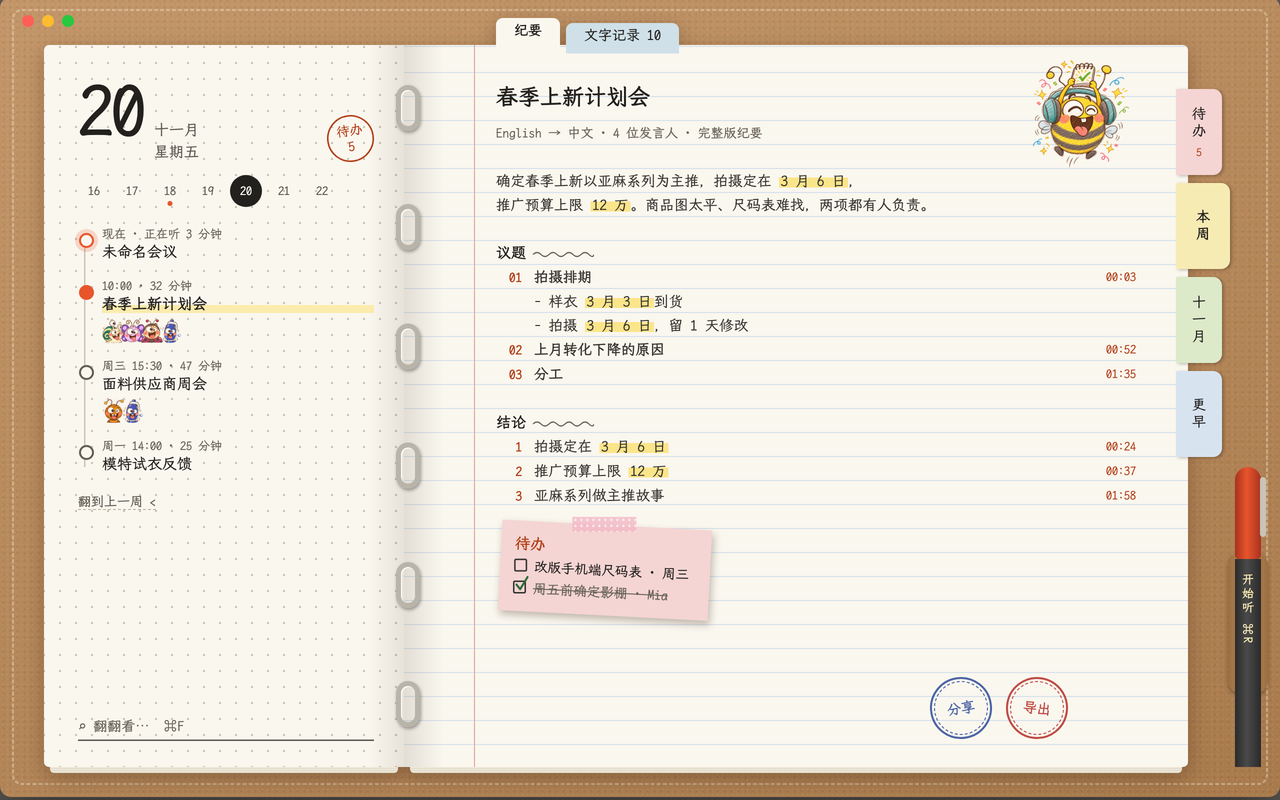
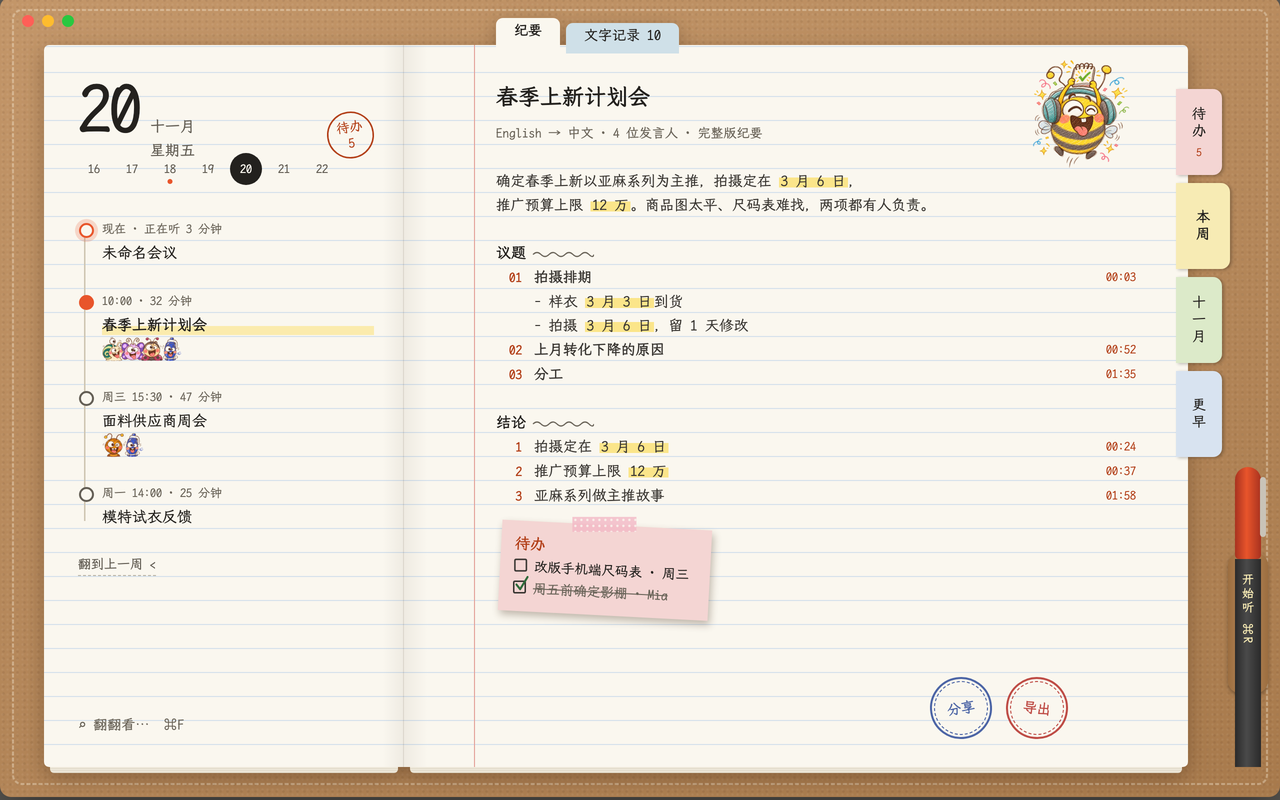
docs: planner mockup with both pages ruled and no rings at the fold

diff --git a/docs/design/mockups/round2-planner.html b/docs/design/mockups/round2-planner.html
@@ -42,40 +42,41 @@
   /* 摊开的活页本：左右两页 + 中间金属环 */
   .spread { position: absolute; left: 44px; top: 48px; right: 92px; bottom: 30px; display: flex; filter: drop-shadow(0 6px 10px rgba(60,35,15,.35)); }
   .pg { height: 100%; position: relative; background-color: var(--paper); }
-  .pgL { width: 360px; border-radius: 5px 0 0 5px; padding: 30px 30px 0 34px;
-    background-image: linear-gradient(90deg, transparent 90%, rgba(60,40,20,.10)), radial-gradient(rgba(150,140,120,.5) 1px, transparent 1.3px);
-    background-size: 100% 100%, 16px 16px; background-position: 0 0, 8px 10px; }
+  .pgL { width: 360px; border-radius: 5px 0 0 5px; padding: 28px 30px 0 34px;
+    background-image: linear-gradient(90deg, transparent 94%, rgba(60,40,20,.06)), repeating-linear-gradient(transparent 0 23px, var(--rule) 23px 24px);
+    background-position: 0 0, 0 4px; }
   .pgR { flex: 1; border-radius: 0 5px 5px 0; padding: 28px 52px 0 92px;
-    background-image: linear-gradient(90deg, rgba(60,40,20,.12), transparent 5%), repeating-linear-gradient(transparent 0 23px, var(--rule) 23px 24px); background-position: 0 0, 0 4px; }
+    background-image: linear-gradient(90deg, rgba(60,40,20,.06), transparent 3%), repeating-linear-gradient(transparent 0 23px, var(--rule) 23px 24px); background-position: 0 0, 0 4px; }
   .pgR::before { content: ""; position: absolute; left: 70px; top: 0; bottom: 0; width: 1px; background: var(--margin); }
   /* 页底露出几张纸的厚度 */
   .pg::after { content: ""; position: absolute; left: 6px; right: 6px; bottom: -6px; height: 6px; background: repeating-linear-gradient(#efe9db 0 1px, #e3dccb 1px 2px); border-radius: 0 0 4px 4px; z-index: -1; }
-  .rings { position: absolute; left: 352px; top: 40px; bottom: 40px; width: 24px; z-index: 5; display: flex; flex-direction: column; justify-content: space-between; }
-  .ring { width: 24px; height: 46px; border-radius: 12px; border: 5px solid #B9B4AA; box-shadow: inset 1px 1px 0 #fff, 1px 2px 3px rgba(0,0,0,.35); background: transparent; }
+  /* 中缝：只有一道很轻的折痕，不放金属装饰 */
+  .pgL::before { content: ""; position: absolute; right: 0; top: 0; bottom: 0; width: 1px; background: rgba(60,40,20,.10); }
 
   /* 左页：B 的「这一周」 */
   .bigdate { display: flex; align-items: baseline; gap: 10px; }
-  .bigdate .n { font-size: 70px; font-weight: 600; letter-spacing: -2px; line-height: 72px; }
-  .bigdate .w { font-size: 15px; color: var(--sec); line-height: 22px; }
+  .bigdate { height: 72px; }
+  .bigdate .n { font-size: 66px; font-weight: 600; letter-spacing: -2px; line-height: 72px; }
+  .bigdate .w { font-size: 15px; color: var(--sec); line-height: 24px; }
   .bigdate .todo { margin-left: auto; font-size: 13px; color: var(--red); border: 1.8px solid var(--red); border-radius: 50%; padding: 6px 9px; transform: rotate(-8deg); text-align: center; line-height: 16px; }
-  .week { display: flex; gap: 6px; margin: 12px 0 20px; }
+  .week { display: flex; gap: 6px; height: 48px; align-items: center; margin: 0 0 24px; }
   .week span { width: 32px; height: 32px; border-radius: 50%; font-size: 12px; display: flex; align-items: center; justify-content: center; color: var(--sec); position: relative; }
   .week span.dot::after { content: ""; position: absolute; bottom: 1px; width: 5px; height: 5px; border-radius: 50%; background: var(--accent); }
   .week span.on { background: var(--ink); color: var(--paper); }
   .tl { position: relative; padding-left: 24px; }
   .tl::before { content: ""; position: absolute; left: 6px; top: 8px; bottom: 8px; width: 1.5px; background: #cfc6b3; }
-  .ev { position: relative; margin-bottom: 16px; }
+  .ev { position: relative; margin-bottom: 24px; }
   .ev::before { content: ""; position: absolute; left: -23px; top: 6px; width: 11px; height: 11px; border-radius: 50%; background: var(--paper); border: 2px solid var(--sec); }
   .ev.on::before { background: var(--accent); border-color: var(--accent); }
   .ev.live::before { background: var(--paper); border-color: var(--accent); box-shadow: 0 0 0 4px rgba(232,85,43,.2); }
-  .ev .h { font-size: 12px; color: var(--ter); }
-  .ev .t { font-size: 15px; line-height: 22px; }
+  .ev .h { font-size: 12px; color: var(--ter); line-height: 24px; }
+  .ev .t { font-size: 15px; line-height: 24px; }
   .ev.on .t { font-weight: 600; }
-  .ev.on { background: linear-gradient(transparent 55%, rgba(251,229,138,.65) 55%, rgba(251,229,138,.65) 92%, transparent 92%); background-size: 100% 22px; background-repeat: no-repeat; background-position: 0 14px; }
-  .ev .who { display: flex; margin-top: 4px; }
+  .ev.on { background: linear-gradient(transparent 55%, rgba(251,229,138,.65) 55%, rgba(251,229,138,.65) 92%, transparent 92%); background-size: 100% 24px; background-repeat: no-repeat; background-position: 0 24px; }
+  .ev .who { display: flex; height: 24px; align-items: center; }
   .ev .who img { width: 24px; height: 24px; margin-right: -5px; }
-  .more { font-size: 13px; color: var(--sec); border-bottom: 1px dashed var(--ph); display: inline-block; }
-  .search { position: absolute; left: 34px; right: 30px; bottom: 26px; border-bottom: 1.5px solid var(--sec); font-size: 14px; color: var(--ter); line-height: 26px; }
+  .more { font-size: 13px; color: var(--sec); border-bottom: 1px dashed var(--ph); display: inline-block; line-height: 22px; }
+  .search { position: absolute; left: 34px; right: 30px; bottom: 30px; font-size: 14px; color: var(--ter); line-height: 24px; }
 
   /* 右页：A 的纪要页 */
   .tabs { position: absolute; top: -27px; left: 92px; display: flex; gap: 6px; z-index: 6; }
@@ -119,7 +120,7 @@
   .gh { font-size: 15px; font-weight: 600; line-height: 24px; margin-top: 24px; }
   .gh.red { color: var(--err); }
   .week-strip { display: grid; grid-template-columns: repeat(7, 1fr); gap: 4px; margin-top: 8px; }
-  .wcell { border: 1px solid var(--hairline); border-radius: 4px; height: 60px; padding: 4px 6px; font-size: 11px; color: var(--ter); background: rgba(255,255,255,.4); position: relative; }
+  .wcell { border: 1px solid var(--hairline); border-radius: 4px; height: 72px; padding: 4px 6px; font-size: 11px; color: var(--ter); background: rgba(255,255,255,.4); position: relative; }
   .wcell b { display: block; font-size: 15px; color: var(--ink); }
   .wcell i { position: absolute; left: 6px; right: 6px; bottom: 6px; height: 6px; border-radius: 3px; font-style: normal; }
 </style>
@@ -127,7 +128,7 @@
 <body>
 
 <h2>① 纪要页</h2>
-<p class="d">一本焦糖色皮面活页手帐摊开：左页点阵纸是 B 的「这一周」（大号日期、周历、会议时间线 + 说话人头像），右页横线纸是 A 的纪要（页顶伸出的索引贴、页边涂鸦的菲比、悬出纸边的待办便利贴、墨水印章按钮）；中间一排金属活页环；右边伸出彩色分隔页；「开始听」是插在皮质笔插里的那支笔（点它拔出来就开始听，正在听时笔变成拿在手里的样子）。</p>
+<p class="d">一本焦糖色皮面手帐摊开，两页都是同一套横线、线横穿中缝，中间只有一道轻折痕：左页是 B 的「这一周」（大号日期、周历、会议时间线 + 说话人头像），右页横线纸是 A 的纪要（页顶伸出的索引贴、页边涂鸦的菲比、悬出纸边的待办便利贴、墨水印章按钮）；右边伸出彩色分隔页；「开始听」是插在皮质笔插里的那支笔（点它拔出来就开始听，正在听时笔变成拿在手里的样子）。</p>
 <div class="win">
   <div class="stitch"></div>
   <div class="lights"><i style="background:#ff5f57"></i><i style="background:#febc2e"></i><i style="background:#28c840"></i></div>
@@ -171,7 +172,6 @@
       </div>
       <div class="sticky"><b>待办</b><br><span class="box"></span>改版手机端尺码表 · 周三<br><span class="box ok"></span><s style="color:var(--ter)">周五前确定影棚 · Mia</s></div>
     </div>
-    <div class="rings"><div class="ring"></div><div class="ring"></div><div class="ring"></div><div class="ring"></div><div class="ring"></div><div class="ring"></div></div>
   </div>
   <div class="dividers">
     <div class="div" style="background:var(--pink)">待办<small>5</small></div>
@@ -191,8 +191,8 @@
   <div class="spread">
     <div class="pg pgL">
       <div class="bigdate"><span class="n">待办</span></div>
-      <div class="meta" style="margin-top:6px">没做完 5 · <span style="color:var(--err)">逾期 1</span> · 本周到期 3</div>
-      <div class="week-strip" style="margin-top:20px">
+      <div class="meta">没做完 5 · <span style="color:var(--err)">逾期 1</span> · 本周到期 3</div>
+      <div class="week-strip" style="margin-top:24px">
         <div class="wcell">周一<b>23</b><i style="background:var(--err)"></i></div>
         <div class="wcell">周二<b>24</b></div>
         <div class="wcell" style="border-color:var(--ink)">周三<b>25</b><i style="background:var(--accent)"></i></div>
@@ -220,7 +220,6 @@
       <div class="ln" style="color:var(--sec);margin-top:4px"><b style="color:var(--red)">＋</b> 加一条</div>
       <div class="ln" style="color:var(--sec);margin-top:24px">做完了 6 条 ›</div>
     </div>
-    <div class="rings"><div class="ring"></div><div class="ring"></div><div class="ring"></div><div class="ring"></div><div class="ring"></div><div class="ring"></div></div>
   </div>
   <div class="dividers">
     <div class="div on" style="background:var(--pink)">待办<small>5</small></div>
